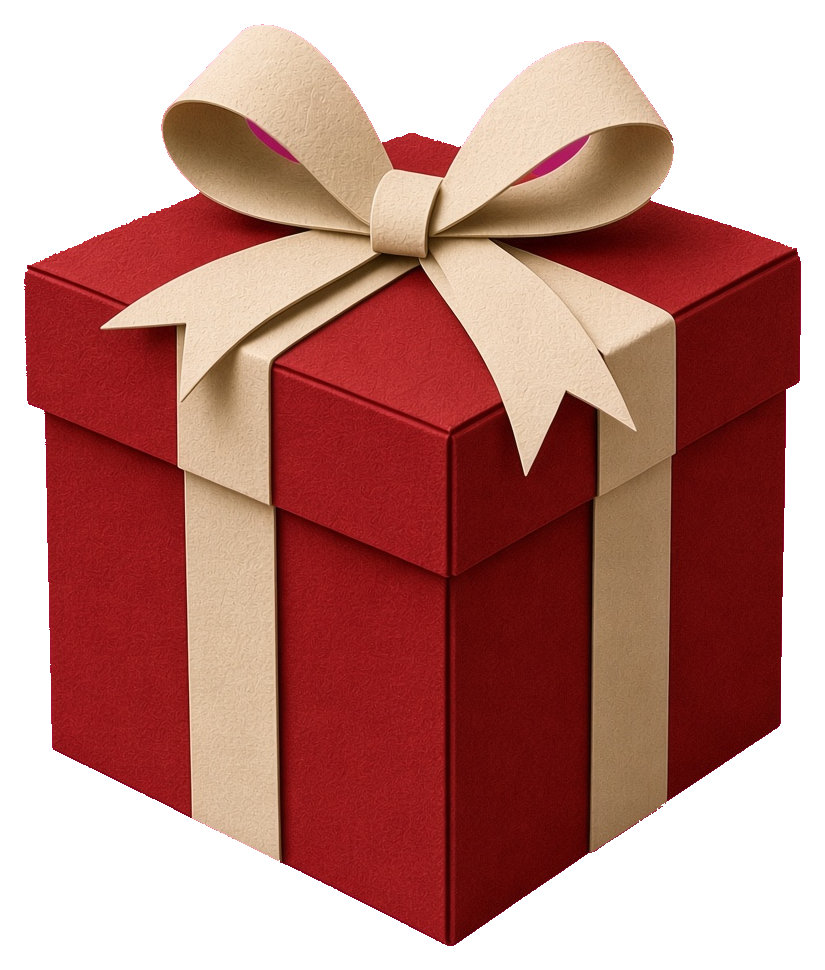
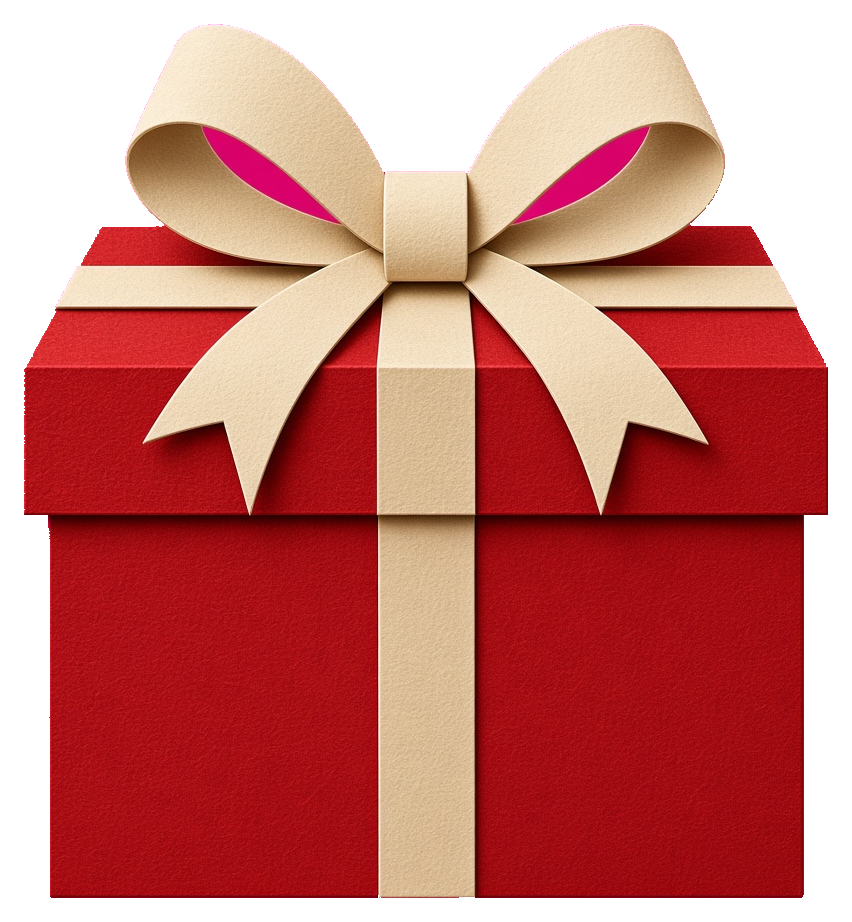
Fix paper gift lid to always lift as dual sprites
Use matched front-facing closed/box/lid from one master. Paper open path
always draws body+lid (no closed-sprite orientation jump); lid rests on
body top and lifts with a clear gap. Cache v=8.

diff --git a/src/effects.js b/src/effects.js
@@ -204,9 +204,9 @@ export class EffectsEngine {
     const closedH = size * 1.2
     const boxBottom = closedH * 0.18
     const bodyH = closedH * 0.58
-    const lidLift = size * (artStyleId === 'paper' ? 0.95 : 0.82)
+    const lidLift = size * (artStyleId === 'paper' ? 1.2 : 0.82)
     // Must match _drawGift gapY when progress === 1
-    const gapY = boxBottom - bodyH - lidLift * 0.35
+    const gapY = boxBottom - bodyH - lidLift * (artStyleId === 'paper' ? 0.45 : 0.35)
     return {
       x: this.w * 0.5,
       y: this.h * 0.5 - gapY,
@@ -949,25 +949,37 @@ export class EffectsEngine {
     ctx.scale(scale, scale)
     ctx.imageSmoothingEnabled = artStyleId === 'vintage' || artStyleId === 'paper'
 
-    // Dual-path open: closed sprite when shut; else SEPARATE box + lid sprites
-    // (lid lifts/rotates off — never a single sprite with a horizontal line cut).
+    // Dual-path open: SEPARATE box + lid sprites. Lid physically lifts off.
+    // Paper: always body+lid (even when closed) so orientation never jumps
+    // from a different closed sprite to mismatched open pieces.
     const closed = this.sprites.gift
     const body = this.sprites.giftBox
     const lid = this.sprites.giftLid
+    const paper = artStyleId === 'paper'
     const closedH = size * 1.2
-    const bodyW = size * 0.86
-    const lidW = size * 1.06
     const boxBottom = closedH * 0.18
-    const bodyH = closedH * 0.58
-    // Prefer natural lid aspect so a shallow lid sprite doesn't stretch into a box half
+
+    const bodyAspect =
+      body && body.naturalWidth ? body.naturalHeight / body.naturalWidth : 0.58
     const lidAspect =
       lid && lid.naturalWidth ? lid.naturalHeight / lid.naturalWidth : 0.52
-    const lidH = Math.min(closedH * 0.62, lidW * Math.max(0.32, Math.min(0.72, lidAspect)))
-    const lidLift = progress * size * (artStyleId === 'paper' ? 0.95 : 0.82)
-    const lidRot = -progress * (artStyleId === 'paper' ? 0.5 : 0.42)
-    const lidSlideX = artStyleId === 'paper' ? progress * size * 0.12 : 0
+    const bodyW = size * (paper ? 0.92 : 0.86)
+    const bodyH = paper
+      ? bodyW * Math.max(0.38, Math.min(0.72, bodyAspect))
+      : closedH * 0.58
+    const lidW = size * (paper ? 1.02 : 1.06)
+    const lidH = paper
+      ? lidW * Math.max(0.4, Math.min(0.75, lidAspect))
+      : closedH * 0.52
 
-    if (progress < 0.02 && closed) {
+    // Strong vertical lift so the gap reads as a real lid leaving the box
+    const lidLift = progress * size * (paper ? 1.2 : 0.82)
+    const lidRot = -progress * (paper ? 0.28 : 0.42)
+    const lidSlideX = paper ? progress * size * 0.06 : 0
+
+    // Paper always dual-sprite; other styles keep closed sprite until open starts
+    const useClosedSprite = !paper && progress < 0.02 && closed
+    if (useClosedSprite) {
       drawSprite(ctx, closed, 0, boxBottom, size, closedH, {
         anchorX: 0.5,
         anchorY: 1,
@@ -982,16 +994,14 @@ export class EffectsEngine {
         this._paintFrontGiftBody(ctx, 0, boxBottom - bodyH, bodyW, bodyH, g.style, true)
       }
 
-      // Blessing between lid and box — no fill / tissue inside
-      // Text is un-mirrored below (scale -1) so selfie mirror stays readable.
+      // Blessing in the gap between lid and box
       if (progress > 0.18) {
         const alpha = Math.min(1, (progress - 0.18) / 0.35) * (ctx.globalAlpha || 1)
         ctx.globalAlpha = alpha
         const bw = Math.min(280, this.w * 0.65)
         const bh = g.signature ? 78 : 56
-        const gapY = boxBottom - bodyH - lidLift * 0.35
-        const lightCard = artStyleId === 'vintage' || artStyleId === 'paper'
-        const paper = artStyleId === 'paper'
+        const gapY = boxBottom - bodyH - lidLift * 0.45
+        const lightCard = artStyleId === 'vintage' || paper
         ctx.fillStyle = lightCard
           ? paper
             ? 'rgba(245, 239, 228, 0.97)'
@@ -1029,14 +1039,15 @@ export class EffectsEngine {
         ctx.globalAlpha = fade
       }
 
-      // Lid wider + lifted off the box as its own sprite
+      // Lid rests on body top (anchorY=1); lifts straight up as progress rises
+      const lidRestY = boxBottom - bodyH + (paper ? bodyH * 0.02 : bodyH * 0.12)
       ctx.save()
-      ctx.translate(lidSlideX, boxBottom - bodyH * 0.88 - lidLift)
+      ctx.translate(lidSlideX, lidRestY - lidLift)
       ctx.rotate(lidRot)
       if (lid) {
         drawSprite(ctx, lid, 0, 0, lidW, lidH, {
           anchorX: 0.5,
-          anchorY: 0.92,
+          anchorY: paper ? 1 : 0.92,
         })
       } else {
         this._paintFrontGiftLid(ctx, 0, 0, lidW, lidH * 0.55, g.style)

diff --git a/src/customize.js b/src/customize.js
@@ -174,9 +174,9 @@ function seedAmbientSnow() {
   const paperFlakes =
     art.id === 'paper'
       ? [
-          `${BASE}paper/snowflake.png?v=7`,
-          `${BASE}paper/snowflake-b.png?v=7`,
-          `${BASE}paper/snowflake-c.png?v=7`,
+          `${BASE}paper/snowflake.png?v=8`,
+          `${BASE}paper/snowflake-b.png?v=8`,
+          `${BASE}paper/snowflake-c.png?v=8`,
         ]
       : null
   const count = paperFlakes ? 16 : 22

diff --git a/src/main.js b/src/main.js
@@ -607,9 +607,9 @@ function seedAmbientSnow() {
   const paperFlakes =
     art.id === 'paper'
       ? [
-          `${BASE}paper/snowflake.png?v=7`,
-          `${BASE}paper/snowflake-b.png?v=7`,
-          `${BASE}paper/snowflake-c.png?v=7`,
+          `${BASE}paper/snowflake.png?v=8`,
+          `${BASE}paper/snowflake-b.png?v=8`,
+          `${BASE}paper/snowflake-c.png?v=8`,
         ]
       : null
   const count = paperFlakes ? 18 : 28

diff --git a/src/paperAssets.js b/src/paperAssets.js
@@ -5,7 +5,7 @@ import { loadImage } from './pixelAssets.js'
 
 const BASE = import.meta.env.BASE_URL
 const P = `${BASE}paper`
-const VER = '7'
+const VER = '8'
 
 export const PAPER = {
   guideSnow: `${P}/guide-snow.jpg?v=${VER}`,
